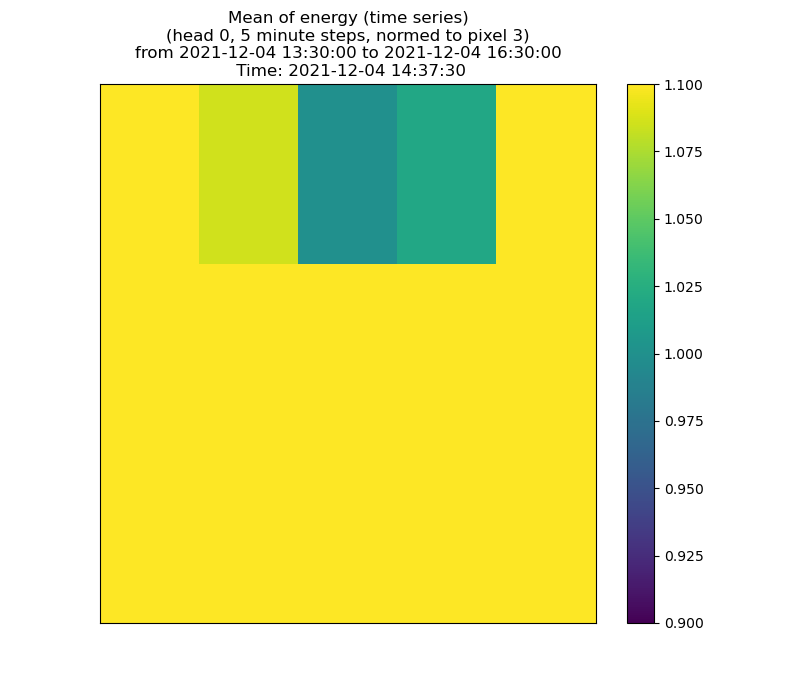
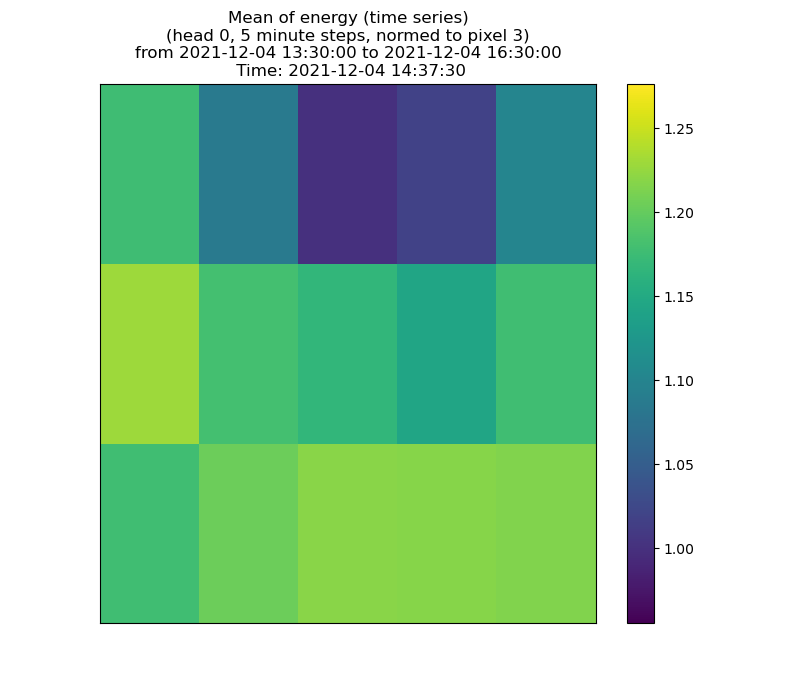
GIFs laufen jetzt endlich

diff --git a/analyze_nom_II.py b/analyze_nom_II.py
@@ -620,10 +620,10 @@ class STEP:
                 pixel_means[k] = np.array(pixel_means[k])
             else:
                 pixel_means[k] = np.array(pixel_means[k])/norm_factor
-                if max(pixel_means[k]) > vmax:
-                    vmax = max(pixel_means[k])
-                if min(pixel_means[k]) < vmin:
-                    vmin = min(pixel_means[k])
+                if np.nanmax(pixel_means[k]) > vmax:
+                    vmax = np.nanmax(pixel_means[k])
+                if np.nanmin(pixel_means[k]) < vmin:
+                    vmin = np.nanmin(pixel_means[k])
         
         # Plotting
         x_corners = [0,1,2,3,4,5]
